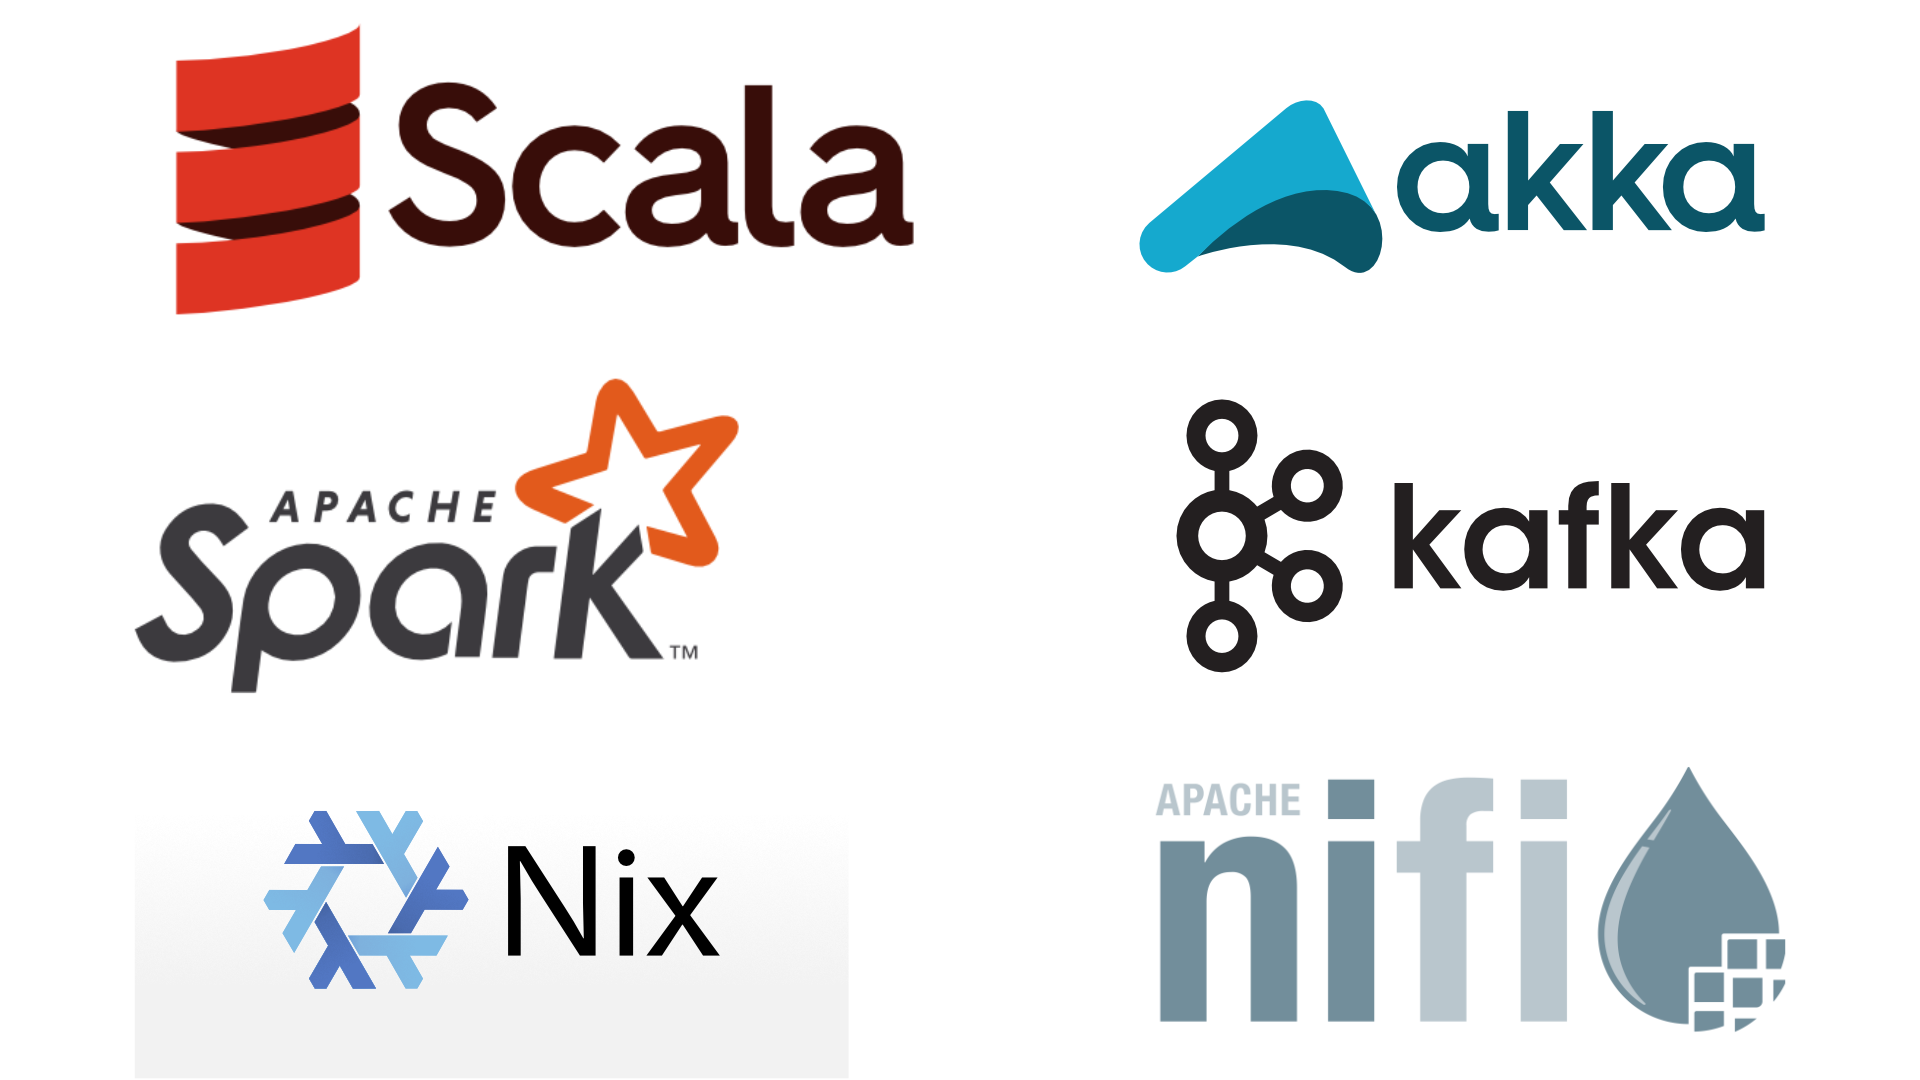
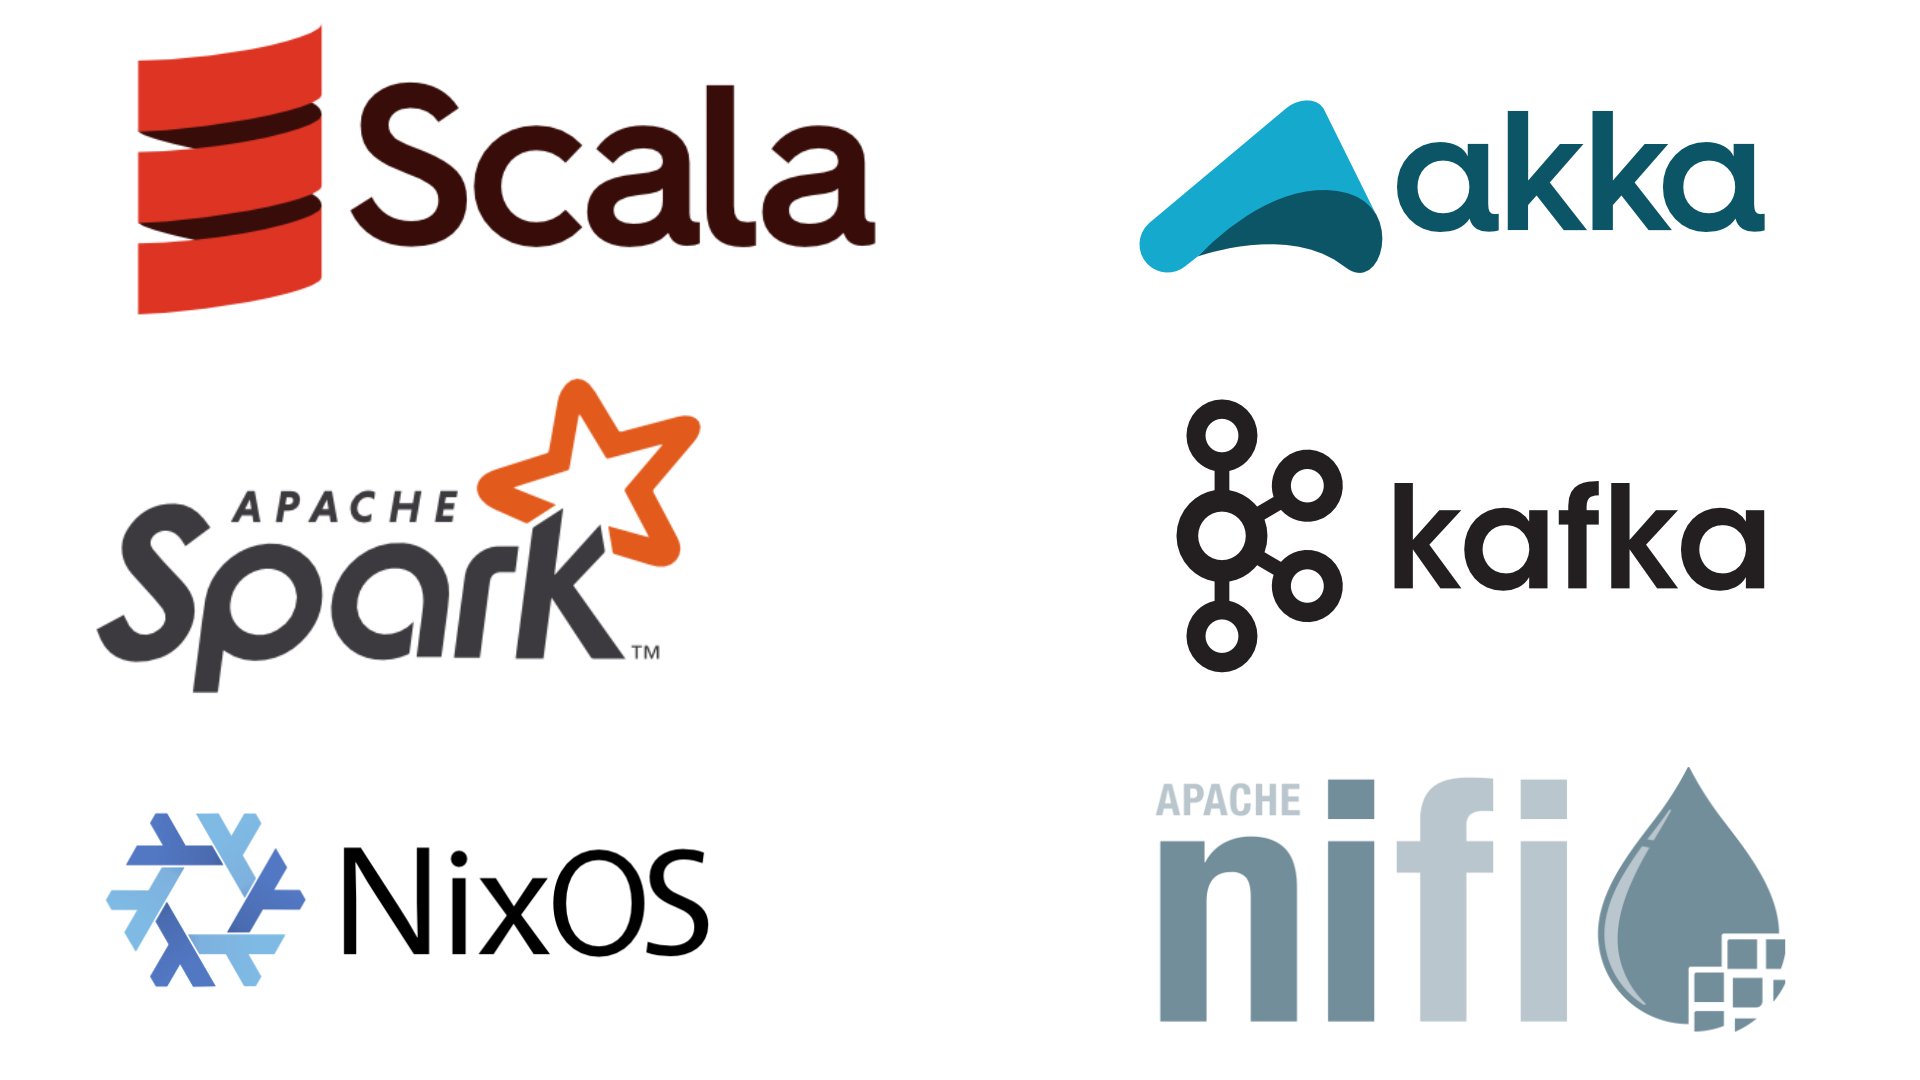
Added Consulting page and form

Changed region(s): [[0.0625, 0.0306, 0.5, 0.3056], [0.0312, 0.3361, 0.4062, 0.6417], [0.0312, 0.7333, 0.375, 0.9167]]

diff --git a/static/css/googleform.css b/static/css/googleform.css
@@ -1,0 +1,46 @@
+@import url(https://fonts.googleapis.com/css?family=Montserrat:400,700);
+
+form { max-width:420px; margin:50px auto; }
+
+.form-input {
+color:#777;
+font-family: Helvetica, Arial, sans-serif;
+font-weight:500;
+font-size: 18px;
+border-radius: 5px;
+line-height: 22px;
+background-color: transparent;
+border:2px solid #F6B26B;
+transition: all 0.3s;
+padding: 13px;
+margin-bottom: 15px;
+width:100%;
+box-sizing: border-box;
+outline:0;
+}
+
+.form-input:focus { border:2px solid #CC4949; }
+
+textarea {
+height: 150px;
+line-height: 150%;
+resize:vertical;
+}
+
+[type="submit"] {
+font-family: 'Montserrat', Arial, Helvetica, sans-serif;
+width: 100%;
+background:#F6B26B;
+border-radius:5px;
+border:0;
+cursor:pointer;
+color:#777;
+font-size:24px;
+padding-top:10px;
+padding-bottom:10px;
+transition: all 0.3s;
+margin-top:-4px;
+font-weight:700;
+}
+[type="submit"]:hover { background:#CC4949; }
+

diff --git a/layouts/shortcodes/rawhtml.html b/layouts/shortcodes/rawhtml.html
@@ -1,0 +1,3 @@
+<!-- raw html -->
+{{.Inner}}
+

diff --git a/content/consulting.md b/content/consulting.md
@@ -1,0 +1,116 @@
++++
+title = "Consulting"
+date = 2022-10-15T18:43:23-07:00
+draft = false
+showReadTime = false
+showDate = false
+comments = false
++++
+
+![Consulting Technical Stack and Speciality: Scala, Akka, Apache Spark, Kafka, Apache Nifi, and Nix / NixOS](/img/techstack.png)
+
+# Services 
+
+I am a software engineer and leader with over 20 years experience, based in the San Francisco Bay Area, California (USA). You can read more about my experience by looking at my [Resume]({{< ref "/resume" >}} "Resume").
+
+### Software Development 
+
+I am happy to help build software for you. This includes, but is not limited to: 
+
+- Building new software for your business from inception 
+- Enhancing and adding new features to your existing custom software 
+- Joining your existing engineering team for short term and long term projects, helping to increase your teams capacity and capability
+
+### Open source maintenance and Support 
+
+Many companies leverage open source software to save costs. As an active contributor and user of open source software I can help with: 
+
+- Providing support and Training
+- Adding enhancments and new features to open source projects that you need
+- If you have open sourced some of your work, I can help with maintenance and supporting its community of users 
+
+### Training 
+
+I provide expert training and mentorship. Happy to provide this on a one to one basis or as a workshop to a group. 
+
+All training and workshops I do are custom to your needs, so that it can focus on the areas most guidance is needed.
+
+### Technical Review 
+
+Do you need an external experienced engineer to review your architecture and code and provide impartial feedback, with advice on improvements and evolving your work? I can provide this. 
+
+Thinking of acquiring a software company? Do you need its assets audited and reviewed to know and understand what you are getting? I can help!
+
+### Hiring Help 
+
+I am available to help you with hiring engineers. I can help with: 
+
+- Defining your interview process and how to measure a candidate for a role
+- Interview candidates of all levels on your behalf
+- Train technical interviewers at your company 
+
+### Consulting 
+
+Having worked in the software engineering industry for over 20 years across the USA and Europe, I am happy to share any knowledge I have gathered, providing any advice I can help with. Also, where possible I can help with making the business and technical connections to help you succeed.
+
+### Business Insights and Analytics 
+
+Do you want better insights and reporting on your business and competitors? 
+
+I can help with your data, creating data pipelines to generate insights and reports that can help with your business strategy and give you a competitive edge leveraging all the modern tools in data engineering and data science.
+
+### Monitoring and Fault Detection Audit and Improvements 
+
+Does your software platform have quality of service issues? Are you failing to meet your customers SLA and reliability expectations? 
+
+I can help by assessing how you monitor and detect problems on your platform, providing advice on what needs to be done to have the best and most reliable service. I am also available to implement the changes needed adding the monitoring you need.
+
+This includes, but is not limited to setting up:
+
+- Better error logging leveraging technologies such as Kibana
+- Better system monitoring leveraging Grafana or Datadog
+- Improvements to compliance and audit logging
+- Engineering process improvements to react to and eliminate recurring problems on your platform 
+
+# Book a Consultation  
+
+Want to get together to discuss how I can help you and find out more about my services? Book a consultation with me by submitting the form below and I will be in touch to move forward.
+
+{{< rawhtml >}}
+<link rel="stylesheet" href="/css/googleform.css">
+
+<script type="text/javascript">var submitted=false;</script>
+<iframe name="hidden_iframe" id="hidden_iframe" style="display:none;" 
+onload="if(submitted) {window.location='/consulting-thankyou';}"></iframe>
+
+<form action="https://docs.google.com/forms/d/e/1FAIpQLSdCGmLDOLCM8ujwkAsKOks0v9xXRJ5R3_Gd-jPLigEHTth1BA/formResponse" 
+method="post" target="hidden_iframe" onsubmit="submitted=true;">
+</form>
+
+<form action="https://docs.google.com/forms/d/e/1FAIpQLSdCGmLDOLCM8ujwkAsKOks0v9xXRJ5R3_Gd-jPLigEHTth1BA/formResponse" method="post" target="hidden_iframe" onsubmit="submitted=true">
+  <label>Email*</label>
+        <input type="email" placeholder="Email address*" class="form-input" name="entry.315851213" required>
+
+  <label>First Name*</label>
+        <input type="text" placeholder="First Name*" class="form-input" name="entry.2101427994" required>
+
+  <label>Last Name*</label>
+        <input type="text" placeholder="Last Name*" class="form-input" name="entry.1349260782" required>
+
+  <label>Company Name</label>
+        <input type="text" placeholder="Company Name" class="form-input" name="entry.626621467">
+
+   <label>Phone Number</label>
+        <input type="text" placeholder="Phone Number" class="form-input" name="entry.1754566849">
+
+   <label>How Can I Help you?*</label>
+        <textarea rows="5" placeholder="Enter your message here" class="form-input" name="entry.737320458" required></textarea>
+
+   <label>What is your preferred dates and times for me to send you a Google Meet / Zoom Calendar invite for us to have a chat about how I can help?</label>
+        <textarea rows="5" placeholder="Enter your message here" class="form-input" name="entry.118380213"></textarea>
+
+   <button type="submit">Send</button>
+</form>
+
+{{< /rawhtml >}}
+

diff --git a/content/about.md b/content/about.md
@@ -3,13 +3,16 @@ title = "Salar Rahmanian"
 date = "2015-11-26T09:16:07-05:00"
 description = "About Salar Rahmanian"
 keywords = ["Salar", "Rahmanian", "Salar Rahmanian"]
+showReadTime = false
+showDate = false
+comments = false
 +++
 
 I, [Salar Rahmanian](https://www.softinio.com), am a software engineer based in San Francisco Bay Area, California.
 
 I have been developing software since the age of eleven. My current passion is functional programming, big data and distributed systems. 
 
-I am particularly enthusiastic about the Scala Programming language and NixOS and technologies such as Kafka, Spark and Akka. 
+I am particularly enthusiastic about the Scala Programming language and NixOS and technologies such as Apache Nifi, Kafka, Spark and Akka. 
 
 I contribute to open source projects when time allows. 
 

diff --git a/content/consulting-thankyou.md b/content/consulting-thankyou.md
@@ -1,0 +1,19 @@
++++
+title = "Thank You."
+date = 2022-10-15T23:20:17-07:00
+draft = false
+showReadTime = false
+showDate = false
+showShare = false
+comments = false
++++
+
+Thank you for contacting me. I have received your submitted form for booking a consultation. I will be in touch shortly. 
+
+Many thanks.
+
+Regards,
+
+*Salar Rahmanian*
+
+

diff --git a/content/resume.md b/content/resume.md
@@ -3,6 +3,9 @@ title = "Resume"
 date = "2018-04-16T09:16:07-05:00"
 description = "Salar Rahmanian Resume"
 keywords = ["Salar", "Rahmanian", "Salar Rahmanian", "Resume", "CV"]
+showReadTime = false
+showDate = false
+comments = false
 +++
 # Salar Rahmanian #
 ## My Location ##

diff --git a/archetypes/default.md b/archetypes/default.md
@@ -1,0 +1,9 @@
++++
+title = "{{ replace .Name "-" " " | title }}"
+date = {{ .Date }}
+draft = true
+showReadTime = false
+showDate = false
+comments = false
++++
+
